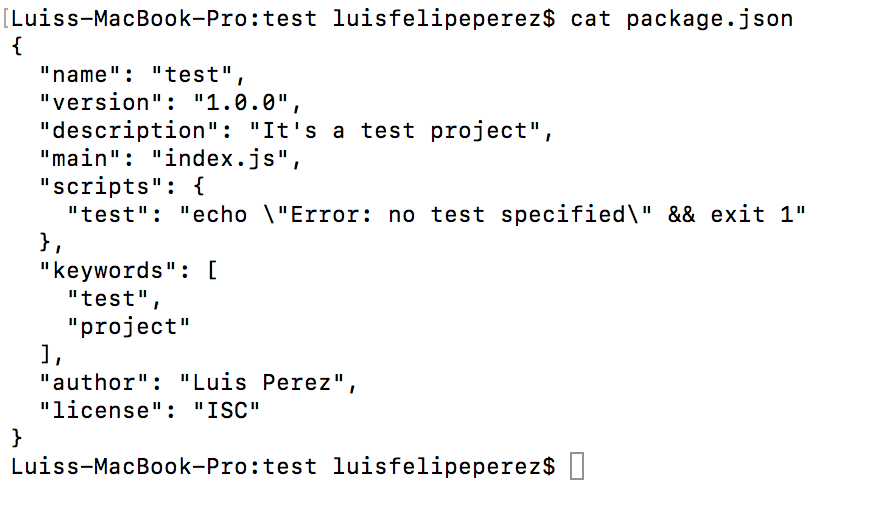
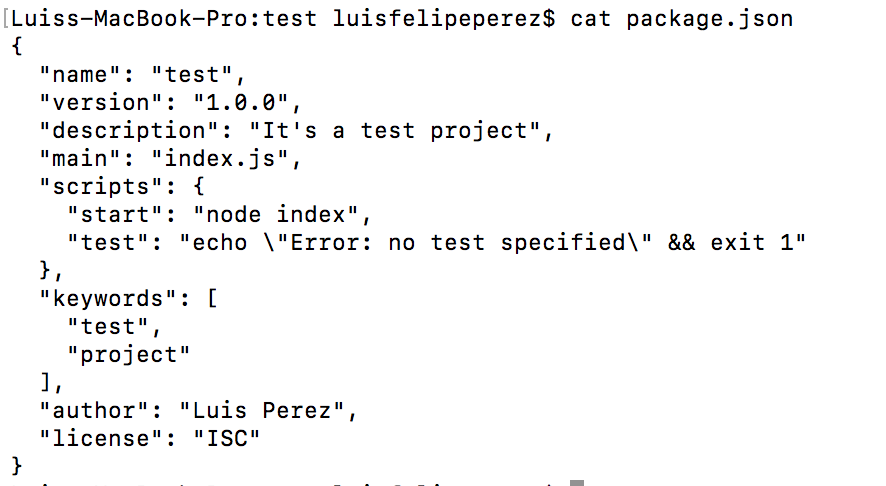
Package.json

diff --git a/index.html b/index.html
@@ -178,6 +178,27 @@
                 </div>
             </section>
 
+            <section id="package-json">
+                <div class="container">
+                    <h3>Package.json</h3>
+                    <section>
+                        <h4>What's it?</h4>
+                        <p>Basically, this file has a lot of informations about your project:</p>
+                        <ol>
+                            <li>Project name</li>
+                            <li>Project version</li>
+                            <li>Dependencies</li>
+                            <li>Author</li>
+                            <li>Scripts which can be ran by `npm run start` or `npm run any-script-name`</li>
+                            <li>Read more at <a href="https://docs.npmjs.com/files/package.json">https://docs.npmjs.com/files/package.json</a></li>
+                        </ol>
+                        <h5>Package.json example</h5>
+                        <img src="images/package.json.png" />
+                    </section>
+                </div>
+            </section>
+
+
             <!-- Footer -->
             <section id="footer">
                 <div class="container">
